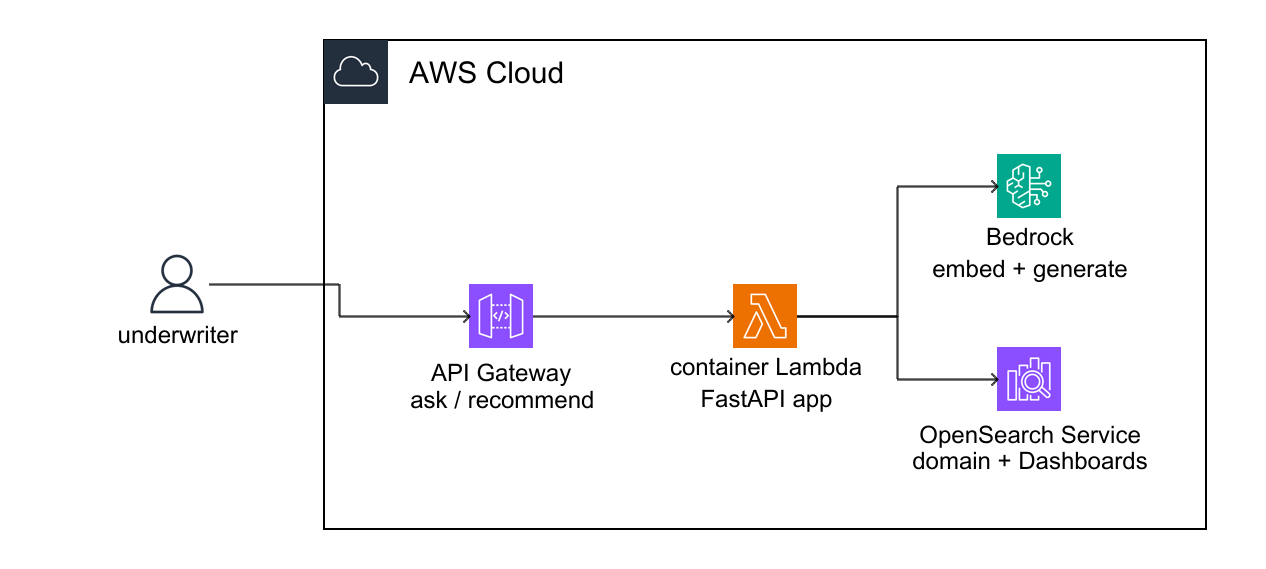
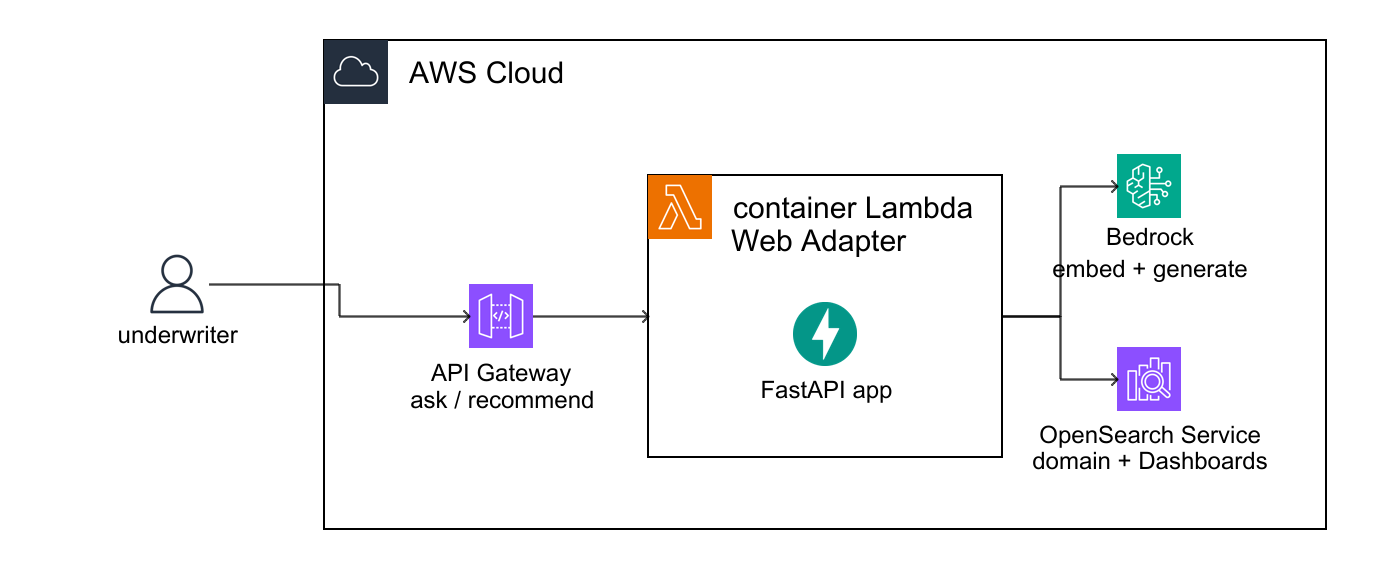
ch-09 (~): typed Answer/Source responses + OpenSearch diagram
app/main.py returns typed Pydantic models (Answer with cited Source loans) from /ask and
/cases instead of raw dicts; the diagrams use the OpenSearch icon. Verified: tests pass,
ruff clean, diagrams render.

diff --git a/code/ch-09-underwriting-kb/app/main.py b/code/ch-09-underwriting-kb/app/main.py
@@ -38,20 +38,34 @@ class CasesBody(BaseModel):
     k: int = 5
 
 
+class Source(BaseModel):
+    """One cited loan."""
+
+    loan_id: int
+    borrower: str
+
+
+class Answer(BaseModel):
+    """A grounded answer plus the loans it cites."""
+
+    answer: str
+    sources: list[Source]
+
+
 @app.post("/ask")
-def ask(body: AskBody) -> dict:
+def ask(body: AskBody) -> Answer:
     """Answer a question, grounded in the nearest memos, with citations."""
-    return ask_result(body.query, body.k)
+    return Answer(**ask_result(body.query, body.k))
 
 
 @app.post("/cases")
-def cases(body: CasesBody) -> dict:
+def cases(body: CasesBody) -> Answer:
     """Assemble the most similar prior cases into a draft recommendation."""
-    return cases_result(body.deal, body.k)
+    return Answer(**cases_result(body.deal, body.k))
 
 
 @app.get("/healthz")
-def healthz() -> dict:
+def healthz() -> dict[str, bool | str]:
     """Report which store the app is serving, for a quick liveness check."""
     return {"ok": True, "store": os.environ.get("STORE", "pgvector")}
 

diff --git a/code/ch-09-underwriting-kb/src/models.py b/code/ch-09-underwriting-kb/src/models.py
@@ -64,9 +64,20 @@ class LocalBedrockRuntime:
             model=OLLAMA_TEXT_MODEL, messages=chat, options=options
         )
         text = resp["message"]["content"]
+        tokens_in = resp.get("prompt_eval_count") or 0
+        tokens_out = resp.get("eval_count") or 0
         return {
             "output": {"message": {"role": "assistant", "content": [{"text": text}]}},
-            "stopReason": "end_turn",
+            "stopReason": (
+                "max_tokens" if resp.get("done_reason") == "length" else "end_turn"
+            ),
+            "usage": {
+                "inputTokens": tokens_in,
+                "outputTokens": tokens_out,
+                "totalTokens": tokens_in + tokens_out,
+            },
+            # Ollama reports total_duration in nanoseconds
+            "metrics": {"latencyMs": (resp.get("total_duration") or 0) // 1_000_000},
         }
 
     def invoke_model(self, modelId: str, body: str) -> dict:
